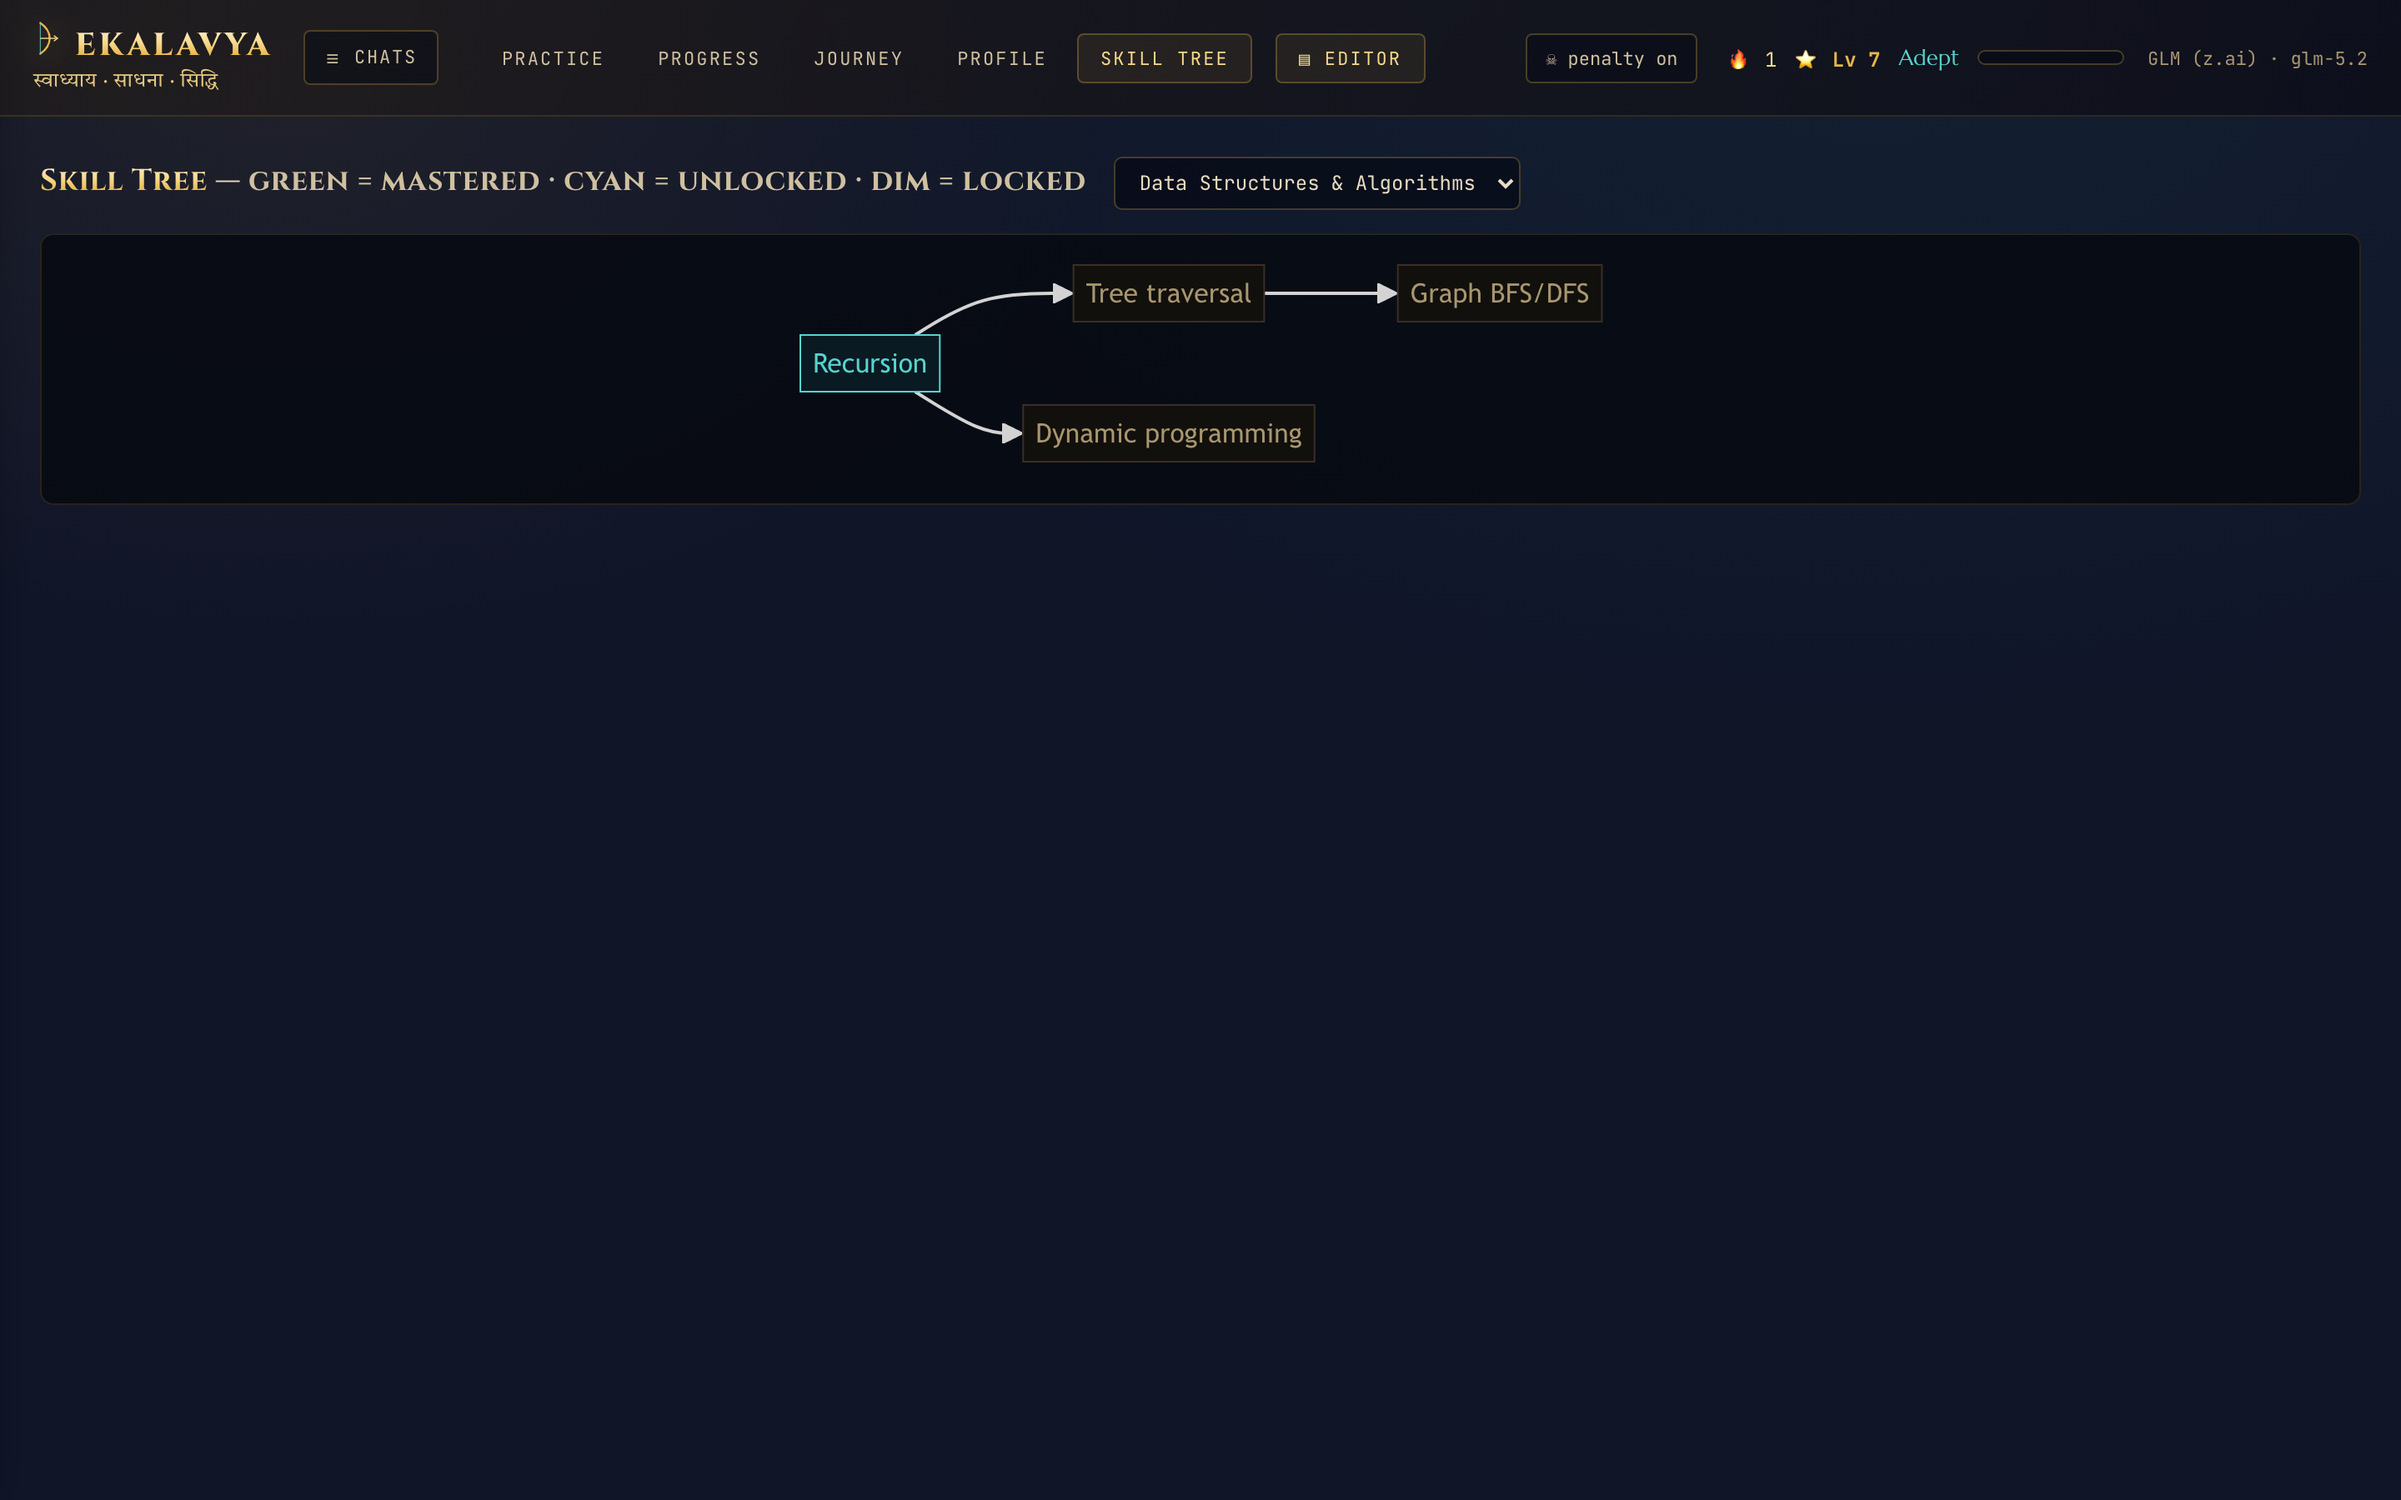
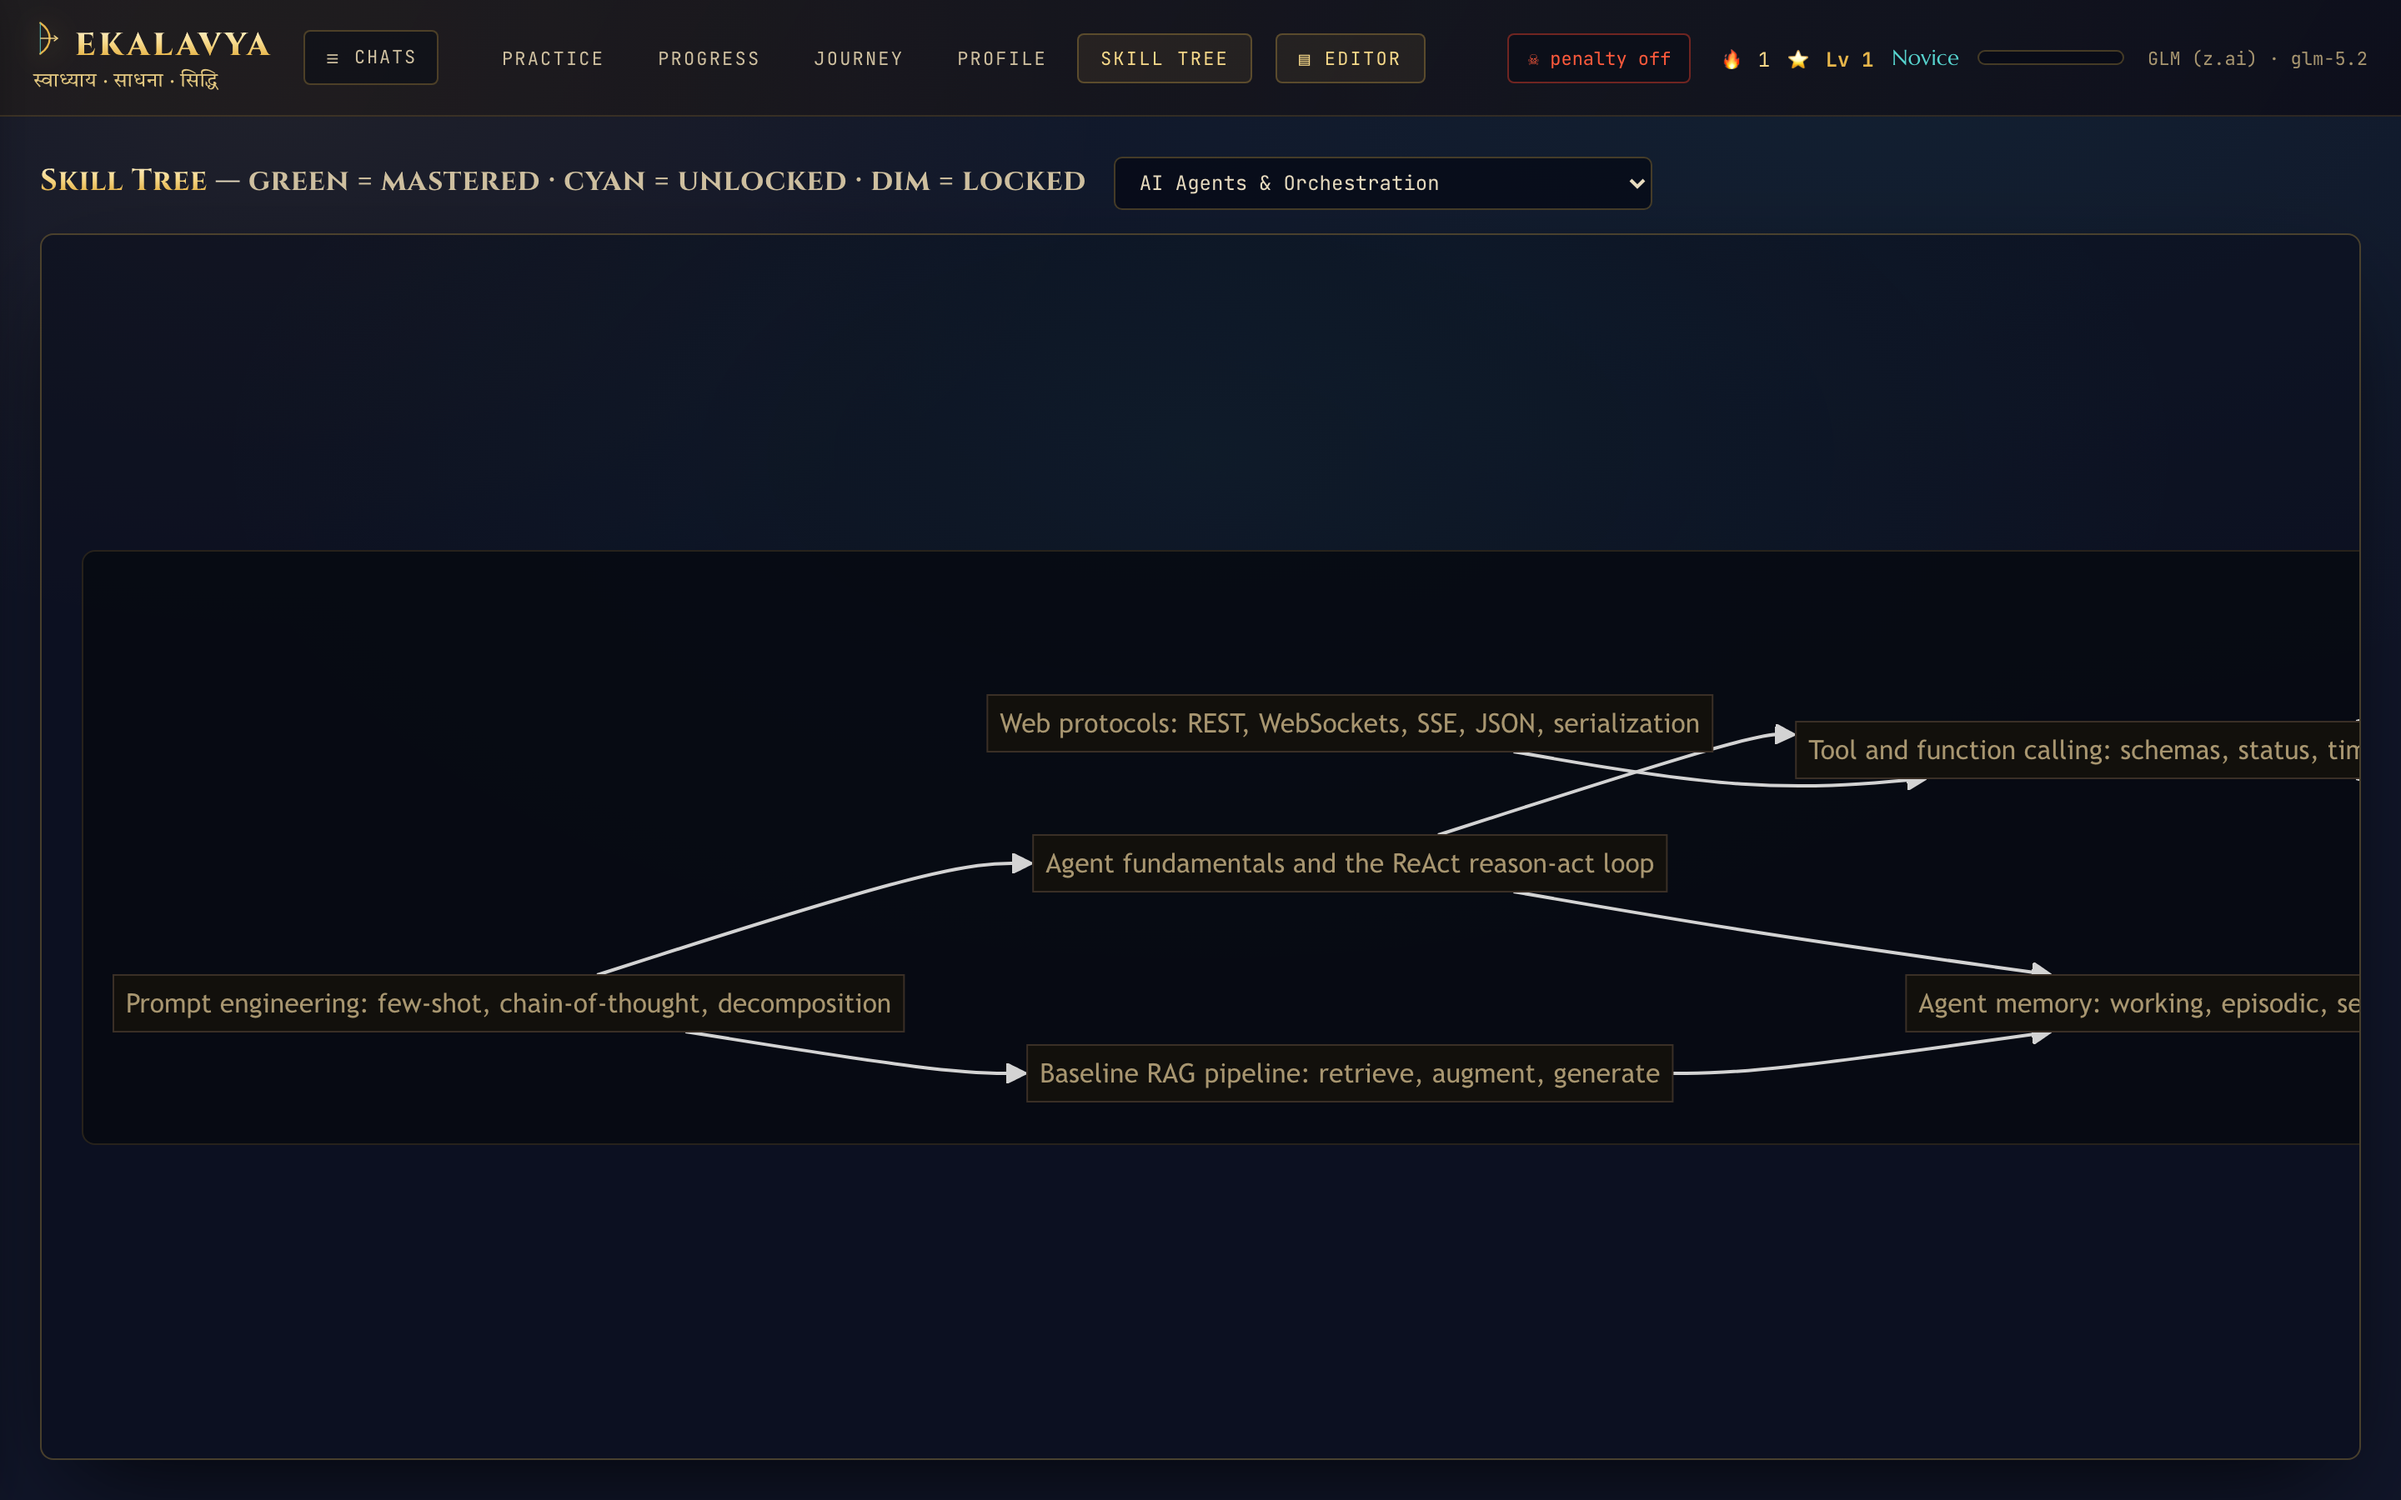
skill-tree: frame + center the diagram (no top-left void); pillar-level overview replaces the 197-node hairball

diff --git a/src/eklavya/webapp.py b/src/eklavya/webapp.py
@@ -514,11 +514,19 @@ button:disabled{opacity:.42;cursor:default}
 .runout .roempty{padding:11px 13px;font-family:var(--f-mono);font-size:12px;color:var(--parch-mute)}
 #dash,#journey,#profile{display:none;height:100%}
 #dash iframe,#journey iframe,#profile iframe{width:100%;height:100%;border:0;background:var(--indigo-night)}
-#tree{display:none;height:100%;overflow:auto;padding:24px}
-.treehead{font-family:var(--f-display);font-weight:700;letter-spacing:.02em;font-size:18px;margin-bottom:14px;color:var(--parch)}
+#tree{display:none;height:100%;padding:24px;flex-direction:column;min-height:0}   /* tab switch toggles display:flex */
+.treehead{font-family:var(--f-display);font-weight:700;letter-spacing:.02em;font-size:18px;margin-bottom:14px;color:var(--parch);flex:none}
 #treefilter{margin-left:12px;background:rgba(6,9,20,.7);color:var(--parch);border:1px solid var(--line-gold);border-radius:5px;padding:6px 10px;font-family:var(--f-mono);font-size:12px;letter-spacing:0}
 .treehead .g{color:transparent;background:linear-gradient(180deg,#fff6df,var(--gold-bright) 45%,var(--gold) 75%,var(--gold-deep));-webkit-background-clip:text;background-clip:text}
-#treediagram{display:block}   /* not flex — flex crushed the SVG; loadTree() sets natural px size, #tree scrolls */
+/* the diagram sits in a gold-hairline frame (template's .mapframe look) that fills the pane
+   and CENTERS its content — so a sparse track floats in the middle, not pinned top-left in a
+   dark void; when a track is bigger than the frame it scrolls inside the frame. */
+.treeframe{flex:1;min-height:0;overflow:auto;border:1px solid var(--line-gold);border-radius:8px;
+ background:radial-gradient(1000px 520px at 50% 18%,rgba(46,163,160,.06),transparent 60%),rgba(10,13,28,.55);
+ box-shadow:var(--sh-deep);display:flex;align-items:safe center;justify-content:safe center;padding:24px}
+/* 'safe center' centers a small track but, when the graph is bigger than the frame, falls back
+   to start-alignment so the whole thing stays scrollable (plain center would clip the top-left). */
+#treediagram{display:block;margin:auto;flex:none}
 .hidden{display:none !important}
 .dim{color:var(--parch-dim)} .typing:after{content:'▍';color:var(--gold);animation:blink 1s steps(2) infinite}
 @keyframes blink{50%{opacity:0}}
@@ -688,7 +696,7 @@ button:disabled{opacity:.42;cursor:default}
   <div id="tree">
     <div class="treehead"><span class="g">Skill Tree</span> — <span class="dim">green = mastered · cyan = unlocked · dim = locked</span>
       <select id="treefilter" onchange="loadTree(this.value)"></select></div>
-    <div id="treediagram"></div>
+    <div class="treeframe"><div id="treediagram"></div></div>
   </div>
 </main>
 
@@ -734,7 +742,7 @@ document.querySelectorAll('.tab[data-view]').forEach(t=>t.onclick=()=>{  // [dat
   document.getElementById('dash').style.display = v==='dash'?'block':'none';
   document.getElementById('journey').style.display = v==='journey'?'block':'none';
   document.getElementById('profile').style.display = v==='profile'?'block':'none';
-  document.getElementById('tree').style.display = v==='tree'?'block':'none';
+  document.getElementById('tree').style.display = v==='tree'?'flex':'none';
   if(v==='dash') document.getElementById('dashframe').src='/dashboard';
   if(v==='journey') document.getElementById('jframe').src='/journey';
   if(v==='profile') document.getElementById('pframe').src='/profile';  // reload → latest profile/goals
@@ -772,9 +780,12 @@ async function loadTree(pillar){
     await mermaid.run({nodes:[m]});
     const svg=m.querySelector('svg'); const vb=svg&&svg.viewBox&&svg.viewBox.baseVal;
     if(svg&&vb){
-      if(track){ svg.style.width=vb.width+'px'; svg.style.height=vb.height+'px'; svg.style.maxWidth='none'; }  // one track: natural, legible
-      else { svg.style.width='100%'; svg.style.height='auto'; svg.style.maxWidth='none'; }                     // all: fit-width overview
+      // NATURAL px size so node labels stay legible — for a track (a left→right chain) and for
+      // the pillar-level overview alike (17 groves, not the 197-node hairball). .treeframe
+      // centers a small graph (no top-left void) and scrolls a larger one.
+      svg.style.width=vb.width+'px'; svg.style.height=vb.height+'px'; svg.style.maxWidth='none';
     }
+    document.querySelector('.treeframe').scrollTo(0,0);   // start at the top-left, never mid-void
   }catch(e){ d.innerHTML='<div class="dim">could not load the skill tree.</div>'; }
 }
 

diff --git a/src/eklavya/report.py b/src/eklavya/report.py
@@ -175,30 +175,58 @@ def curriculum_mermaid(pillar: str | None = None) -> dict:
         return (c.replace('"', "'").replace("[", "(").replace("]", ")")
                  .replace("{", "(").replace("}", ")"))
 
-    # which concepts to draw: one track (+ its direct prereqs) when filtered, else all
-    if pillar:
-        shown = {c for c in concepts if pillar_of[c] == pillar}
-        for c in list(shown):
-            shown.update(prereqs[c])
-        render = [c for c in concepts if c in shown]
-        direction = "graph LR"  # a single track reads as a left→right path
-    else:
-        render = concepts
-        direction = "graph TD"
+    ramp = [
+        # Option-E ramp: gold = mastered, peacock-teal = unlocked, muted stone = locked.
+        "  classDef done fill:#2a2012,stroke:#e7b64b,color:#f7d98a;",
+        "  classDef avail fill:#0a1a22,stroke:#57d3ce,color:#57d3ce;",
+        "  classDef lock fill:#12100c,stroke:#3a2f26,color:#a89670;",
+    ]
 
-    lines = [direction]
+    # No filter → a legible PILLAR-LEVEL forest map: one node per grove (17, not the 197-node
+    # hairball), edges aggregated from cross-pillar concept prereqs. A grove is 'done' when all
+    # its concepts are mastered, 'avail' when every unmastered concept is already unlocked, else
+    # 'lock'. Reading concept labels is the single-track view's job (chosen from the filter).
+    if not pillar:
+        pids = {p: f"p{i}" for i, p in enumerate(pillars)}
+        edges = set()
+        for c in concepts:
+            for p in prereqs[c]:
+                a, b = pillar_of.get(p, ""), pillar_of[c]
+                if a and b and a != b:
+                    edges.add((a, b))
+
+        def pillar_status(p: str) -> str:
+            cs = [c for c in concepts if pillar_of[c] == p]
+            if cs and all(status(c) == "done" for c in cs):
+                return "done"
+            if all(status(c) != "lock" for c in cs):
+                return "avail"
+            return "lock"
+
+        lines = ["graph LR"]
+        for p in pillars:
+            done = sum(1 for c in concepts if pillar_of[c] == p and status(c) == "done")
+            total = sum(1 for c in concepts if pillar_of[c] == p)
+            lines.append(f'  {pids[p]}["{label(p)}<br/>{done}/{total}"]:::{pillar_status(p)}')
+        for a, b in sorted(edges):
+            lines.append(f"  {pids[a]} --> {pids[b]}")
+        lines += ramp
+        return {"empty": False, "mermaid": "\n".join(lines), "pillars": pillars}
+
+    # A single track (+ its direct prereqs) reads as a left→right path with legible labels.
+    shown = {c for c in concepts if pillar_of[c] == pillar}
+    for c in list(shown):
+        shown.update(prereqs[c])
+    render = [c for c in concepts if c in shown]
+
+    lines = ["graph LR"]
     for c in render:
         lines.append(f'  {ids[c]}["{label(c)}"]:::{status(c)}')
     for c in render:
         for p in prereqs[c]:
             if p in ids and p in render:
                 lines.append(f"  {ids[p]} --> {ids[c]}")
-    lines += [
-        # Option-E ramp: gold = mastered, peacock-teal = unlocked, muted stone = locked.
-        "  classDef done fill:#2a2012,stroke:#e7b64b,color:#f7d98a;",
-        "  classDef avail fill:#0a1a22,stroke:#57d3ce,color:#57d3ce;",
-        "  classDef lock fill:#12100c,stroke:#3a2f26,color:#a89670;",
-    ]
+    lines += ramp
     return {"empty": False, "mermaid": "\n".join(lines), "pillars": pillars}
 
 

diff --git a/tests/test_curriculum_graph.py b/tests/test_curriculum_graph.py
@@ -35,13 +35,19 @@ def test_pipe_prereqs_build_edges_and_pillar_filter_narrows():
 
     full = report.curriculum_mermaid()
     assert full["empty"] is False
-    # edges must be recovered despite the comma-in-name (2 edges), not shredded to 0
-    assert full["mermaid"].count("-->") == 2
-    assert set(full["pillars"]) == {"Python Fundamentals", "RAG & Vector Retrieval"}
+    # unfiltered = a legible PILLAR-level forest map: one node per grove, not the concept hairball
+    assert full["mermaid"].splitlines()[0] == "graph LR"
+    pnodes = sum(1 for ln in full["mermaid"].splitlines() if '["' in ln)
+    assert pnodes == 2  # two pillars → two grove nodes
+    # the cross-pillar prereq (RAG depends on Python Fundamentals) aggregates to ONE grove edge,
+    # recovered despite the comma-in-name (not shredded to 0). The intra-RAG edge stays inside the track.
+    assert full["mermaid"].count("-->") == 1
 
-    # filter to one track -> only its concepts (+ direct prereqs) render, left-to-right
+    # filter to one track -> its concepts (+ direct prereqs) render, left-to-right, with the
+    # comma-named foundation edge recovered (2 concept edges), not shredded to 0
     rag = report.curriculum_mermaid("RAG & Vector Retrieval")
     assert rag["mermaid"].splitlines()[0] == "graph LR"
+    assert rag["mermaid"].count("-->") == 2
     nodes = sum(1 for ln in rag["mermaid"].splitlines() if '["' in ln)
     assert nodes == 3  # 2 RAG concepts + 1 prereq foundation for context
 
@@ -55,8 +61,9 @@ def test_node_is_done_despite_concept_wording_drift():
     # a correct attempt recorded with drifted casing/whitespace vs the node name
     tools.record_attempt("Python Fundamentals", "syntax_recall",
                          "  async and event LOOPS ", 3, True, 1.0)
-    m = report.curriculum_mermaid()["mermaid"]
+    # the concept node lives in the single-track view (the overview is pillar-level now)
+    m = report.curriculum_mermaid("Python Fundamentals")["mermaid"]
     assert "Async and Event Loops" in m
-    assert ":::done" in m           # the mastered node is marked done…
+    assert ":::done" in m           # the mastered node is marked done despite the wording drift…
     # …and its dependent is now unlocked (avail), not still locked
     assert ":::avail" in m

diff --git a/tests/test_curriculum.py b/tests/test_curriculum.py
@@ -38,13 +38,14 @@ def test_mermaid_empty():
 
 
 def test_mermaid_status_colours_by_mastery():
-    tools.add_curriculum("generators", "")
-    tools.add_curriculum("async", "generators")
-    m = report.curriculum_mermaid()["mermaid"]
-    assert "graph TD" in m and ":::avail" in m and ":::lock" in m  # gen avail, async locked
+    tools.add_curriculum("generators", "", "Python Fundamentals")
+    tools.add_curriculum("async", "generators", "Python Fundamentals")
+    # the single-track view shows concept nodes coloured by mastery
+    m = report.curriculum_mermaid("Python Fundamentals")["mermaid"]
+    assert "graph LR" in m and ":::avail" in m and ":::lock" in m  # gen avail, async locked
     # master generators (a correct attempt named 'generators')
     tools.record_attempt("Python idioms", "syntax_recall", "generators", 2, True)
-    m2 = report.curriculum_mermaid()["mermaid"]
+    m2 = report.curriculum_mermaid("Python Fundamentals")["mermaid"]
     assert ":::done" in m2  # generators is now mastered → async unlocks
 
 
